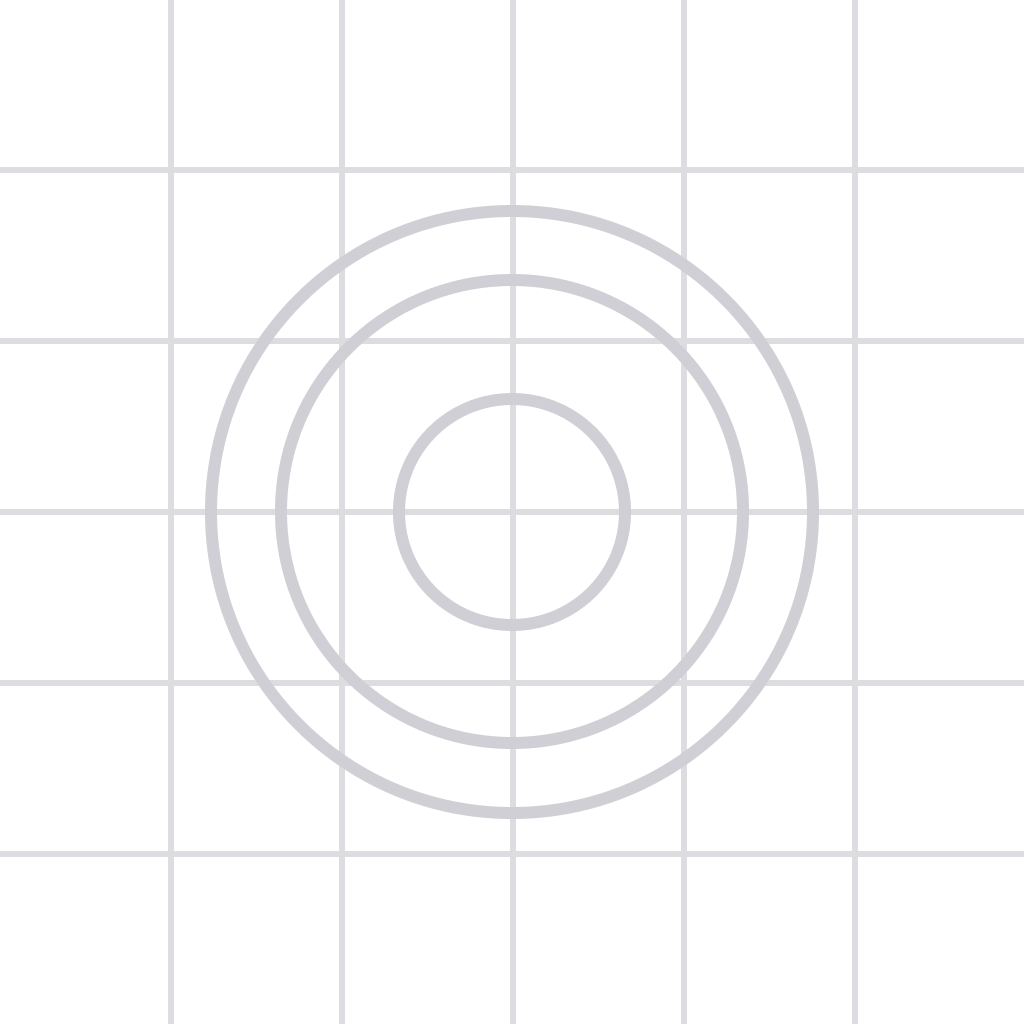
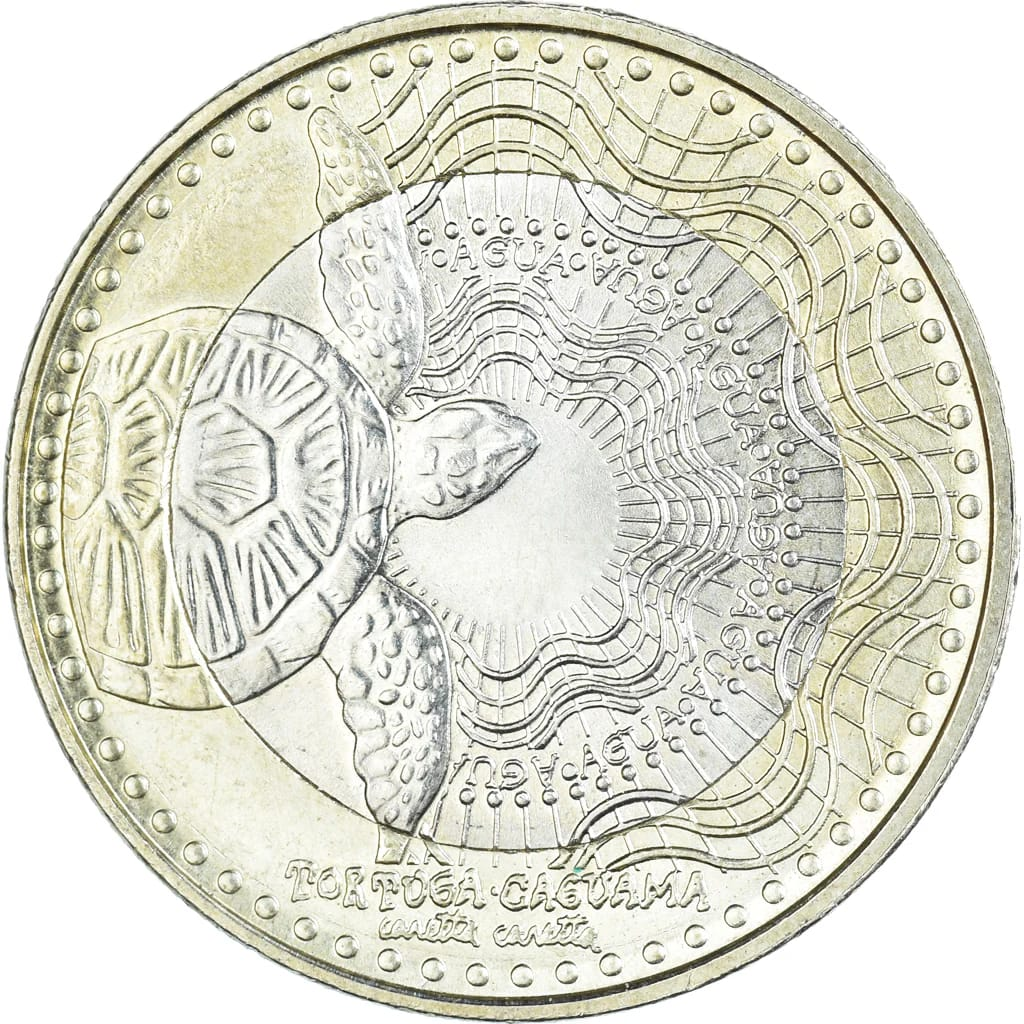
version final del app

diff --git a/src/screens/HomeScreen.js b/src/screens/HomeScreen.js
@@ -1,9 +1,10 @@
-import React, { useState } from "react";
+import React, { useState, useRef } from "react";
 import {
   View,
   Text,
   TouchableOpacity,
   StyleSheet,
+  Animated,
 } from "react-native";
 import { LinearGradient } from "expo-linear-gradient";
 import * as Haptics from "expo-haptics";
@@ -14,6 +15,44 @@ export default function HomeScreen() {
   const [result, setResult] = useState(null);
   const [trigger, setTrigger] = useState(false);
   const [mode, setMode] = useState("50");
+  const [message, setMessage] = useState("");
+
+  const scale60 = useRef(new Animated.Value(1)).current;
+  const scale50 = useRef(new Animated.Value(1)).current;
+  const scale40 = useRef(new Animated.Value(1)).current;
+
+  const animateCard = (scaleRef) => {
+    Animated.sequence([
+      Animated.timing(scaleRef, {
+        toValue: 1.1,
+        duration: 150,
+        useNativeDriver: true,
+      }),
+      Animated.timing(scaleRef, {
+        toValue: 1,
+        duration: 150,
+        useNativeDriver: true,
+      }),
+    ]).start();
+  };
+
+  const getMessage = (res) => {
+    if (res === "Sí") {
+      const mensajes = [
+        "Hazlo 😈",
+        "Confía en eso 🔥",
+        "Es tu momento 🚀",
+      ];
+      return mensajes[Math.floor(Math.random() * mensajes.length)];
+    } else {
+      const mensajes = [
+        "Mejor no... 👀",
+        "Piénsalo bien 🤔",
+        "No es el momento ❌",
+      ];
+      return mensajes[Math.floor(Math.random() * mensajes.length)];
+    }
+  };
 
   const lanzarMoneda = async () => {
     setTrigger(false);
@@ -27,7 +66,9 @@ export default function HomeScreen() {
       else if (mode === "40") prob = Math.random() < 0.4;
       else prob = Math.random() < 0.5;
 
-      setResult(prob ? "Sí" : "No");
+      const res = prob ? "Sí" : "No";
+      setResult(res);
+      setMessage(getMessage(res));
       setTrigger(true);
     }, 200);
   };
@@ -42,19 +83,49 @@ export default function HomeScreen() {
 
         <Coin result={result} trigger={trigger} />
 
+        {/* MENSAJE */}
+        {message !== "" && <Text style={styles.message}>{message}</Text>}
+
         {/* SELECTOR */}
         <View style={styles.selector}>
-          <TouchableOpacity onPress={() => setMode("60")}>
-            <Text style={styles.option}>60/40</Text>
-          </TouchableOpacity>
+          <Animated.View style={{ transform: [{ scale: scale60 }] }}>
+            <TouchableOpacity
+              style={[styles.cardOption, mode === "60" && styles.activeCard]}
+              onPress={() => {
+                setMode("60");
+                animateCard(scale60);
+              }}
+            >
+              <Text style={styles.optionTitle}>Más probable</Text>
+              <Text style={styles.optionHighlight}>SÍ</Text>
+            </TouchableOpacity>
+          </Animated.View>
 
-          <TouchableOpacity onPress={() => setMode("50")}>
-            <Text style={styles.option}>50/50</Text>
-          </TouchableOpacity>
+          <Animated.View style={{ transform: [{ scale: scale50 }] }}>
+            <TouchableOpacity
+              style={[styles.cardOption, mode === "50" && styles.activeCard]}
+              onPress={() => {
+                setMode("50");
+                animateCard(scale50);
+              }}
+            >
+              <Text style={styles.optionTitle}>Equilibrado</Text>
+              <Text style={styles.optionHighlight}>50/50</Text>
+            </TouchableOpacity>
+          </Animated.View>
 
-          <TouchableOpacity onPress={() => setMode("40")}>
-            <Text style={styles.option}>40/60</Text>
-          </TouchableOpacity>
+          <Animated.View style={{ transform: [{ scale: scale40 }] }}>
+            <TouchableOpacity
+              style={[styles.cardOption, mode === "40" && styles.activeCard]}
+              onPress={() => {
+                setMode("40");
+                animateCard(scale40);
+              }}
+            >
+              <Text style={styles.optionTitle}>Más probable</Text>
+              <Text style={styles.optionHighlight}>NO</Text>
+            </TouchableOpacity>
+          </Animated.View>
         </View>
 
         <TouchableOpacity style={styles.button} onPress={lanzarMoneda}>
@@ -63,16 +134,16 @@ export default function HomeScreen() {
 
         {result && <Text style={styles.result}>{result}</Text>}
       </View>
+
+      <Text style={styles.footer}>
+        App desarrollada por Miguel Angel Blandon Montes
+      </Text>
     </LinearGradient>
   );
 }
 
 const styles = StyleSheet.create({
-  container: {
-    flex: 1,
-    justifyContent: "center",
-    alignItems: "center",
-  },
+  container: { flex: 1, justifyContent: "center", alignItems: "center" },
 
   card: {
     width: "85%",
@@ -80,7 +151,6 @@ const styles = StyleSheet.create({
     borderRadius: 20,
     backgroundColor: "#111122",
     alignItems: "center",
-
     borderWidth: 1,
     borderColor: "#7f00ff",
   },
@@ -92,19 +162,49 @@ const styles = StyleSheet.create({
     fontWeight: "bold",
   },
 
-  selector: {
-    flexDirection: "row",
-    marginTop: 20,
-    gap: 15,
-  },
-
-  option: {
+  message: {
+    marginTop: 10,
     color: "#00ff9f",
     fontSize: 16,
   },
 
+  selector: {
+    flexDirection: "row",
+    marginTop: 25,
+    gap: 10,
+  },
+
+  cardOption: {
+    flex: 1,
+    padding: 12,
+    borderRadius: 12,
+    backgroundColor: "#1a1a2e",
+    alignItems: "center",
+    borderWidth: 1,
+    borderColor: "#333",
+  },
+
+  activeCard: {
+    borderColor: "#00e5ff",
+    shadowColor: "#00e5ff",
+    shadowOpacity: 0.8,
+    shadowRadius: 10,
+    elevation: 10,
+  },
+
+  optionTitle: {
+    color: "#aaa",
+    fontSize: 12,
+  },
+
+  optionHighlight: {
+    color: "#00ff9f",
+    fontSize: 16,
+    fontWeight: "bold",
+  },
+
   button: {
-    marginTop: 20,
+    marginTop: 25,
     padding: 12,
     backgroundColor: "#00ff9f",
     borderRadius: 10,
@@ -116,8 +216,15 @@ const styles = StyleSheet.create({
   },
 
   result: {
-    marginTop: 20,
-    fontSize: 30,
+    marginTop: 15,
+    fontSize: 28,
     color: "#ff00ff",
+  },
+
+  footer: {
+    position: "absolute",
+    bottom: 20,
+    color: "#555",
+    fontSize: 12,
   },
 });

diff --git a/src/components/Coin.js b/src/components/Coin.js
@@ -21,16 +21,25 @@ export default function Coin({ result, trigger }) {
     outputRange: ["0deg", "720deg"],
   });
 
+  const getColor = () => {
+    if (result === "Sí") return "#00ff9f";
+    if (result === "No") return "#ff1744";
+    return "#00e5ff";
+  };
+
   return (
     <Animated.View
       style={[
         styles.coin,
         {
           transform: [{ rotateY: rotate }],
+          borderColor: getColor(),
         },
       ]}
     >
-      <Text style={styles.text}>{result ? result : "?"}</Text>
+      <Text style={[styles.text, { color: getColor() }]}>
+        {result ? result : "?"}
+      </Text>
     </Animated.View>
   );
 }
@@ -44,12 +53,10 @@ const styles = StyleSheet.create({
     justifyContent: "center",
     alignItems: "center",
     borderWidth: 2,
-    borderColor: "#00e5ff",
   },
 
   text: {
     fontSize: 42,
-    color: "#00ff9f",
     fontWeight: "bold",
   },
 });